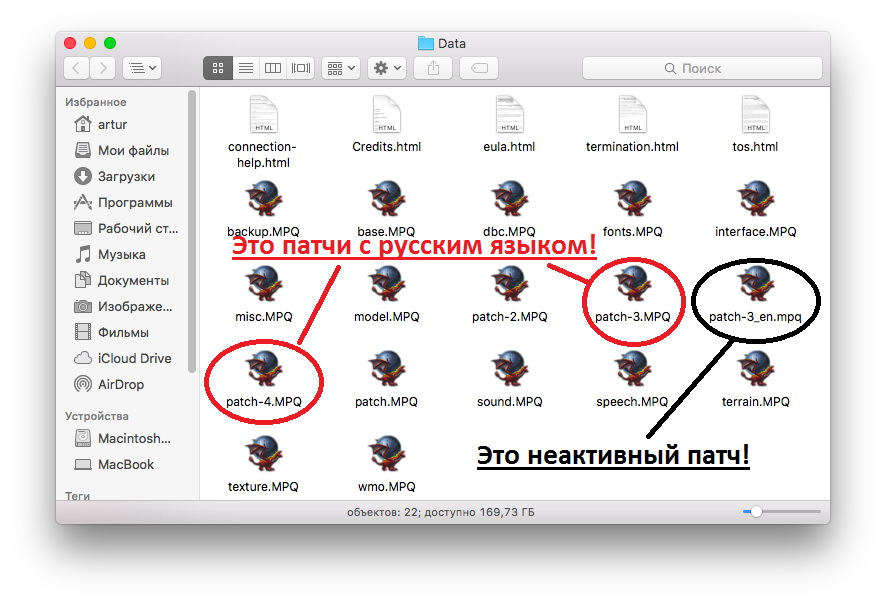
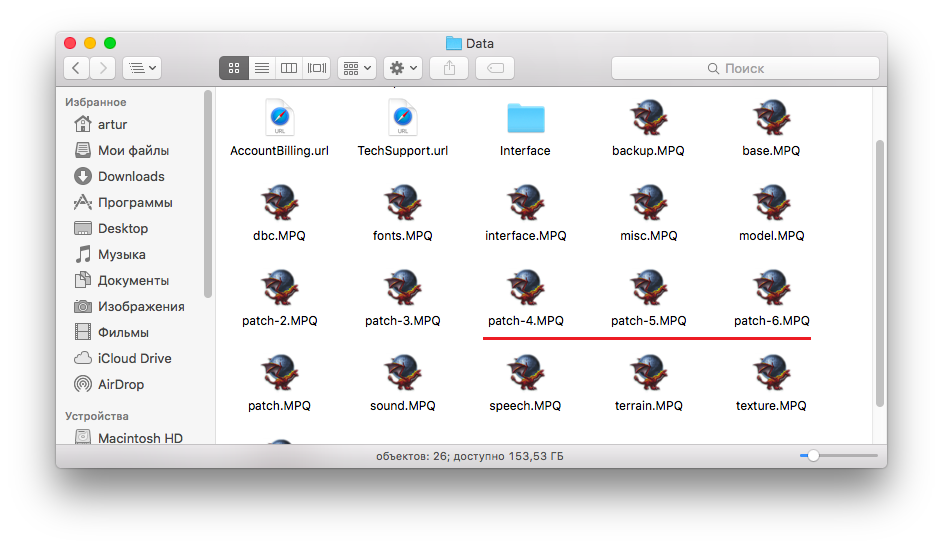
Update Mac instruction

Changed region(s): [[0.0609, 0.031, 0.9447, 0.8686]]

diff --git a/mac_instruction.md b/mac_instruction.md
@@ -2,15 +2,18 @@
 
 1. Скачайте англоязычный клиент версии 1.12.1 для Mac OS.
 2. Скачать [архив](https://www.dropbox.com/sh/ux2p713h5tet0s0/AABX98AzJRtCdufnOEVY5M_qa?dl=1) и распаковать его в любое угодное место.
-3. Перейти в папку архива, Data/ruRU, переименовать patch-1.MPQ, patch-2.MPQ и patch-3.MPQ в patch-5.MPQ, patch-6.MPQ и patch-7.MPQ. Поместить эти MPQ файлы в папку Data вашего игрового клиента.
-4. Скачать [архив](https://www.dropbox.com/s/g6u9iau7fyrr4ec/World%20of%20Warcraft.zip?dl=1) и распаковать его в корень игры, согласиться с заменой.
-5. Запустить World of Warcraft.
+3. Перейти в папку архива, Data, поместить файл patch-3.MPQ в папку Data вашего игрового клиента.
+4. Перейти в папку архива, Data/ruRU, переименовать patch-1.MPQ, patch-2.MPQ и patch-3.MPQ в patch-4.MPQ, patch-5.MPQ и patch-6.MPQ. Поместить эти MPQ файлы в папку Data вашего игрового клиента.
+5. Скачать [архив](https://www.dropbox.com/s/g6u9iau7fyrr4ec/World%20of%20Warcraft.zip?dl=1) и распаковать его в корень игры, согласиться с заменой.
+6. Запустить World of Warcraft.
 
 Сообщить о проблеме или просто оставить отзыв вы можете в этом [обсуждении](https://vk.com/topic-113603759_35171106).
 
-Обращаем Ваше внимание на то, что смена языка происходит в ручном режиме. Чтобы сменить язык, вам будет необходимо открыть папку Data и переименовать наши скачанные (подчеркиваем, только те три скачанных) MPQ файлы, изменив их название.
+Обращаем Ваше внимание на то, что смена языка происходит в ручном режиме. Использовать меню смены языка НЕ нужно! На Mac клиенте оно не работает!
+Чтобы сменить язык, вам будет необходимо открыть папку Data и переименовать наши скачанные (patch-4.MPQ, patch-5.MPQ и patch-6.MPQ) MPQ файлы, изменив их название. Достаточно дописать любую букву в конце названия файла.
+
 Примеры:
-Русский клиент
+Русский язык
 ![image1](assets\img\mac_instruction1.jpg)
-Английский клиент
+Английский язык
 ![image2](assets\img\mac_instruction2.jpg)
